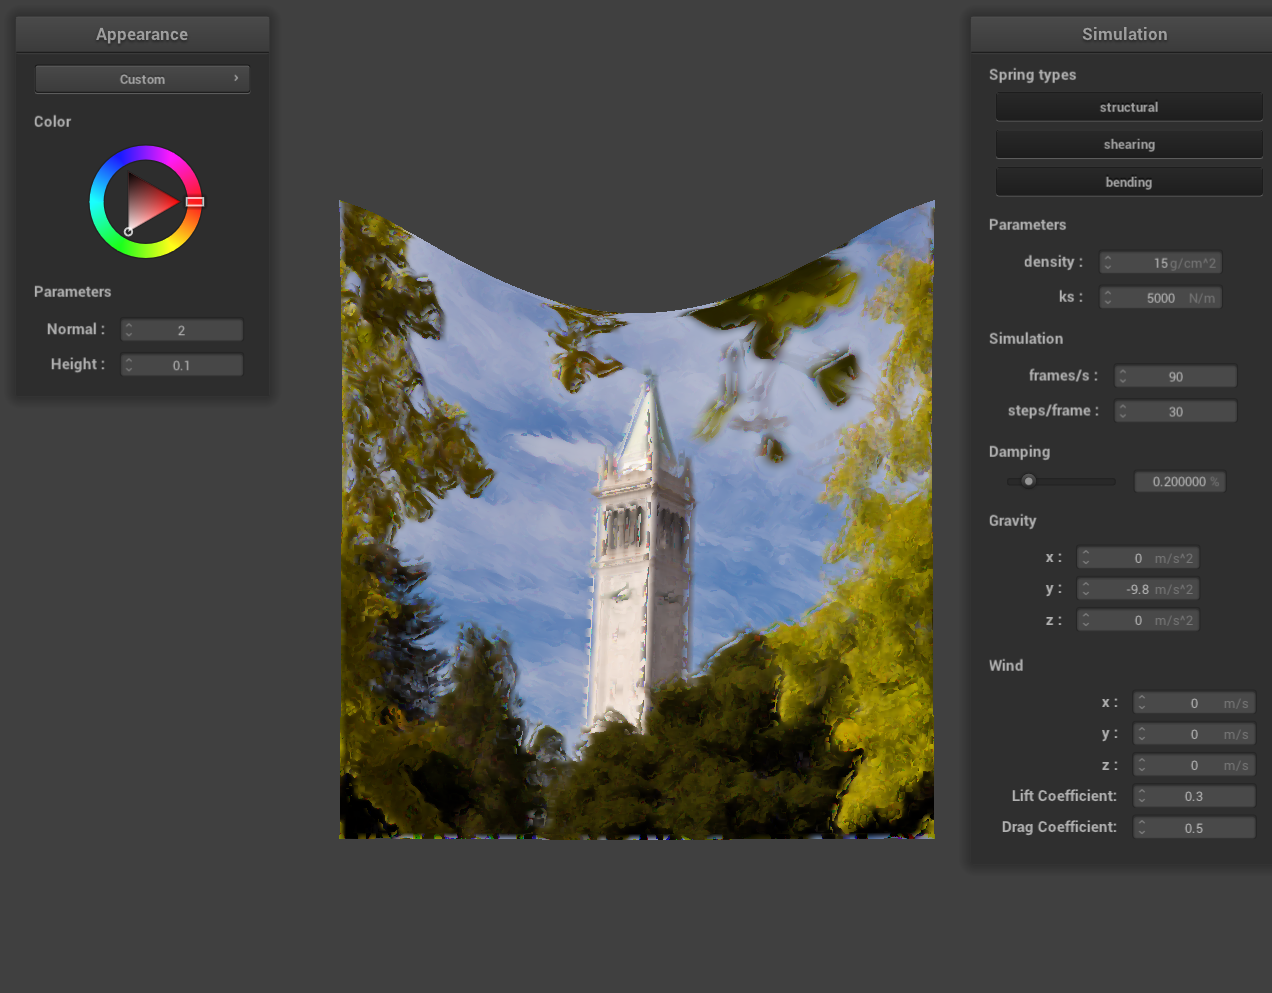
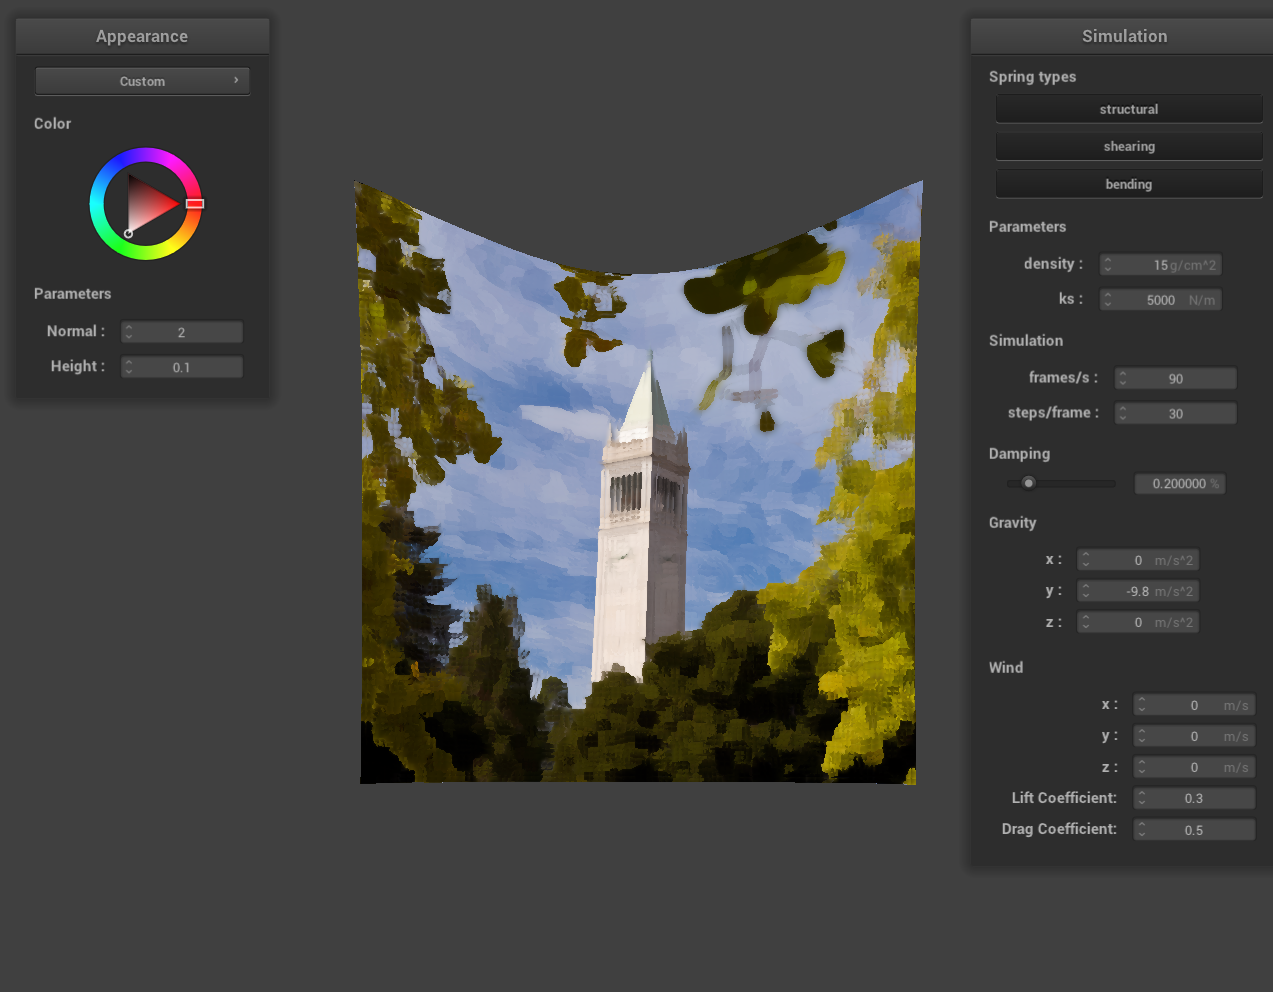
better shading

diff --git a/proj4/index.html b/proj4/index.html
@@ -531,7 +531,8 @@
     </b></blockquote>
 
     <p>
-      TODO
+      This custom shader uses a Kuwahara filter to to produce the cool painted effect of this custom texture. To implement this, within some square radius of each pixel, in this case 5, we take the average and standard deviation of the values in each quadrant within the radius.
+      Then the value of the pixel is changed to be the average value of the quadrant with the lowest standard deviation. As a result, the edges of the picture are preserved but the texture is given an interesting effect. Below are two examples of this shader in action.
     </p>
 
     <div align="middle">
